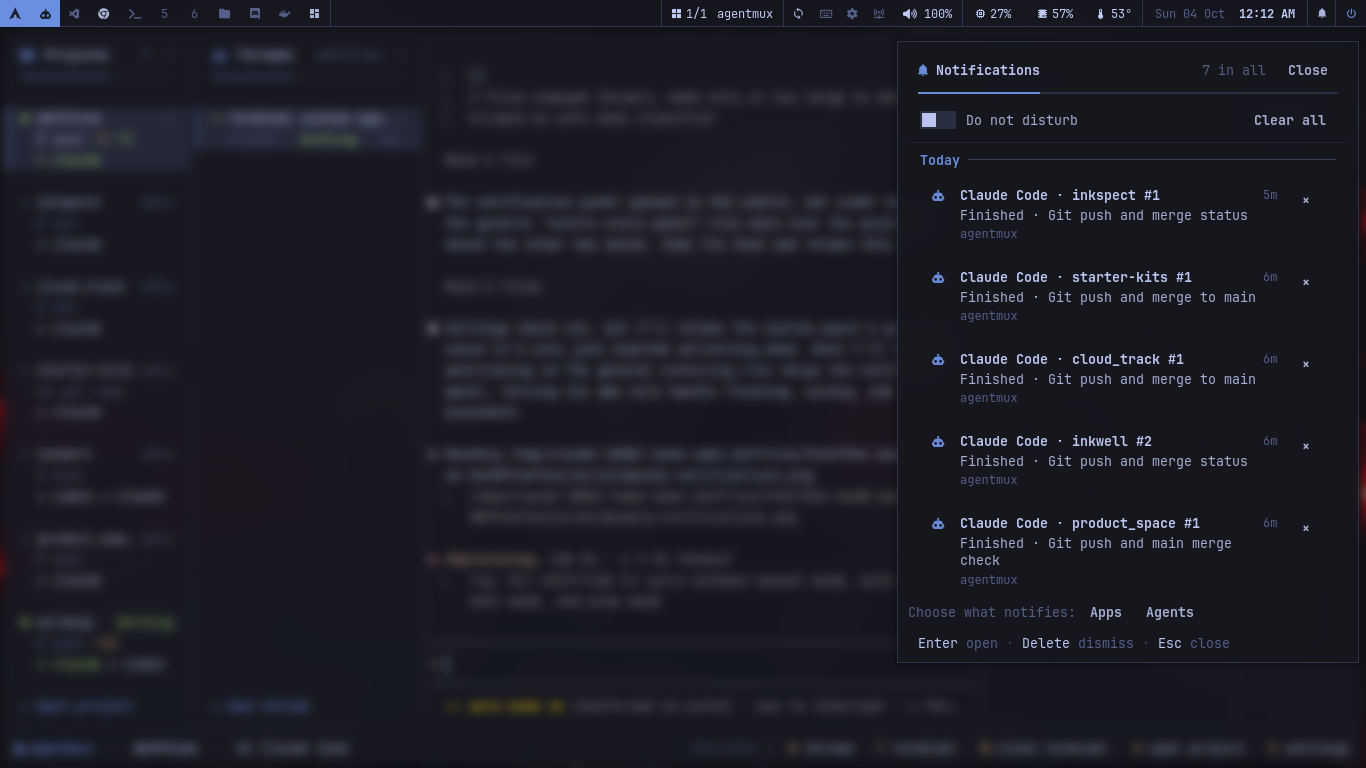
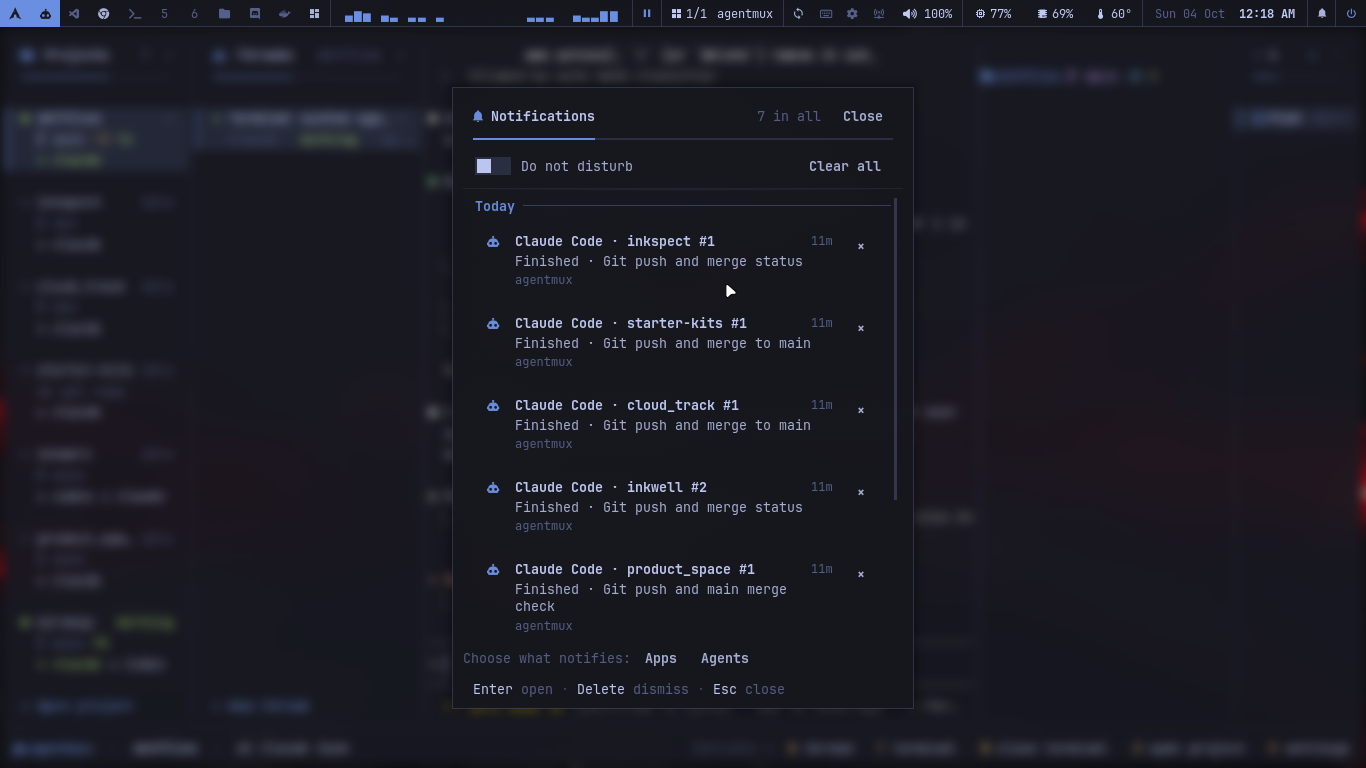
README: GitHub's front page (screenshots, an overview, install, keys), linking to MANUAL.md, the full manual (the former README)

diff --git a/MANUAL.md b/MANUAL.md
@@ -1,25 +1,10 @@
-# dotfiles
+# dotfiles: the manual
 
 CachyOS + Hyprland desktop configuration, riced after [Omarchy](https://github.com/basecamp/omarchy)
 (its classic v3 stack: waybar, walker, mako, swayosd, hyprlock, hypridle, swaybg) in Tokyo Night.
 
-![agentmux: projects, threads, an agent and its terminals side by side](docs/screenshots/agentmux.png)
-
-**agentmux** (`Super + A`): coding agents by project, each thread a live tmux session shared with
-the kitty beside VS Code, terminals at the right. [More below](#agents-agentmux).
-
-| | |
-|---|---|
-| ![Control Center](docs/screenshots/controlcenter.png) | ![System panel](docs/screenshots/system.png) |
-| **Control Center** (workspace 10): workspaces, system, shortcuts, audio, network at a glance | **System** (`Super + Ctrl + T`): CPU, memory and GPU with their history, processes, storage |
-| ![Settings](docs/screenshots/settings.png) | ![Notifications](docs/screenshots/notifications.png) |
-| **Settings** (`Super + I`): every setting in one place, searchable | **Notifications** (the bell, `Super + .`): history by day, do not disturb |
-
-![The bar](docs/screenshots/bar.png)
-
-The bar: workspace buttons, an audio visualizer while sound plays, the window's title, controls,
-stats, the clock and the notification bell. (Screenshots: `docs/screenshots/`, taken on the
-1366×768 PC.)
+This is the full manual: what everything does and how it's put together. For screenshots and a
+short overview, see the [README](README.md).
 
 ## Bootstrap a new machine
 
@@ -67,7 +52,7 @@ zone, power profile, the GPU's own services.
 | `system/swap-setup.sh` | *manual, needs root* | 16 GB swapfile on the SSD (subvolume `@swap` at `/swap`, priority 10, after zram) so systemd-oomd doesn't kill VS Code when RAM fills — `pkexec ~/dotfiles/system/swap-setup.sh` |
 | `system/boot-splash.sh` | *manual, needs root* | boot and shutdown show the loading screen (Plymouth) instead of text: adds `quiet …` to GRUB's kernel command line — `pkexec ~/dotfiles/system/boot-splash.sh` |
 | `setup/` | — | `install.sh`, `setup-dev.sh`, package lists (`packages.txt`, `packages-aur.txt`), `vscode-extensions.txt` |
-| `docs/screenshots/` | — | the screenshots at the top of this README |
+| `docs/screenshots/` | — | the screenshots in the README |
 
 `setup/install.sh` is idempotent and never deletes: anything real it finds in the way
 is moved to `~/.config-backup-<timestamp>/` first.
@@ -314,8 +299,7 @@ The pair popup (`Super + Alt + P`) has none: you watch the pair while you change
 ### Notifications
 
 The bell beside the clock shows them: a plain bell, blue with a dot when something new came since you
-last looked, crossed out (red) while **do not disturb** is on. Click it for the panel (it drops down
-under the bell); right-click it, `Super + Ctrl + ,` or the panel's switch for do not disturb (nothing
+last looked, crossed out (red) while **do not disturb** is on. Click it for the panel; right-click it, `Super + Ctrl + ,` or the panel's switch for do not disturb (nothing
 pops up; everything is still kept for the panel). The panel lists every notification, newest first,
 by day, with its time; the new ones have a blue edge. Click one to open what it's about (an agentmux
 one shows its thread; one still on screen runs its own action); `×` (or `Delete`) takes it out,

diff --git a/README.md b/README.md
@@ -1,0 +1,62 @@
+# dotfiles
+
+CachyOS + Hyprland desktop, riced after [Omarchy](https://github.com/basecamp/omarchy) (waybar,
+walker, mako, swayosd, hyprlock, hypridle, swaybg) in Tokyo Night, with tools of its own: a tmux
+workspace for coding agents, GTK panels, workspace groups and a code backup service. Shared between
+PCs through this repo: a fresh install plus one script gives the same desktop.
+
+**The full manual is [MANUAL.md](MANUAL.md):** every feature, key and file, and how it's put together.
+
+![agentmux: projects, threads, an agent and its terminals side by side](docs/screenshots/agentmux.png)
+
+**agentmux** (`Super + A`): coding agents (Claude Code, Codex, opencode, agy) by project. Each thread
+is a live tmux session, shared with the kitty beside VS Code; terminals at the right; threads come
+back on their own conversation after a restart. [More](MANUAL.md#agents-agentmux)
+
+| | |
+|---|---|
+| ![Control Center](docs/screenshots/controlcenter.png) | ![System panel](docs/screenshots/system.png) |
+| **Control Center** (workspace 10): workspaces, system, shortcuts, audio, network at a glance. [More](MANUAL.md#control-center-workspace-10) | **System** (`Super + Ctrl + T`): CPU, memory and GPU with their history, processes, storage. [More](MANUAL.md#panels) |
+| ![Settings](docs/screenshots/settings.png) | ![Notifications](docs/screenshots/notifications.png) |
+| **Settings** (`Super + I`): every setting in one place, searchable. [More](MANUAL.md#settings-panel) | **Notifications** (the bell, `Super + .`): history by day, do not disturb. [More](MANUAL.md#notifications) |
+
+![The bar](docs/screenshots/bar.png)
+
+The bar: workspace buttons, an audio visualizer while sound plays, the window's title, controls,
+stats, the clock and the notification bell.
+
+## What's in it
+
+- **Workspace groups:** one workspace per kind of app (Agents, Code, Web, Terminal, Files, Discord,
+  Docker, Control Center), each opened or focused with one key. [More](MANUAL.md#workspace-groups)
+- **agentmux:** the agents workspace above, with notifications when an agent needs you or finishes.
+- **Panels:** GTK windows in one look: System, Audio, Network, Shortcuts, Settings, Notifications,
+  Docker, Code Sync. [More](MANUAL.md#panels)
+- **codesync:** backs up the code folder from the SSD to the HDD as you work. [More](MANUAL.md#code-backup-codesync)
+- **Every PC the same:** packages, toolchains, coding agents and settings all come from the repo;
+  `dotsync` keeps the PCs in step. [More](MANUAL.md#syncing-between-pcs)
+
+## Install
+
+On a fresh CachyOS with Hyprland:
+
+```bash
+git clone https://github.com/sami999khan999/arch_dotfiles.git ~/dotfiles
+cd ~/dotfiles
+setup/install.sh --packages   # packages, toolchains, coding agents, config links
+```
+
+Log out and back in. A few one-time steps need root (login screen, boot splash, swap) and are
+listed at the end of the install; see [Bootstrap a new machine](MANUAL.md#bootstrap-a-new-machine).
+
+## Handy keys
+
+| Key | Does |
+|---|---|
+| `Super + A` | agentmux |
+| `Super + I` | Settings |
+| `Super + K` | every shortcut, searchable |
+| `Super + .` | notifications |
+| `Alt + 1…0` | the Nth window of the workspace |
+
+All of them: [Shortcut list](MANUAL.md#shortcut-list), or `Super + K` on the desktop.

diff --git a/AGENTS.md b/AGENTS.md
@@ -3,7 +3,8 @@
 CachyOS + Hyprland desktop config for one user (sami), shared between PCs through GitHub.
 Riced after Omarchy (waybar, walker, mako, swayosd, hyprlock, hypridle, swaybg), Tokyo Night,
 plus custom tools: workspace groups, a Control Center, and `codesync` (code backup SSD → HDD).
-`README.md` is the user manual; this file is what an agent needs to change things safely.
+`MANUAL.md` is the user manual (`README.md` is GitHub's front page: screenshots, an overview, links
+into the manual); this file is what an agent needs to change things safely.
 
 Task-specific guides live in `.claude/skills/*/SKILL.md` (plain Markdown, usable by any agent):
 
@@ -74,7 +75,8 @@ Screenshots: `grim -g "0,0 1366x34" out.png` (the bar; the screen is 1366×768),
 - Match the surrounding code: short header comment saying what the file is and how it's used,
   comments that explain *why*, no dead code. Lua and Python modules follow the existing layout.
 - A new keybind gets a trailing `-- description` comment: `keys.py` (Super + K) shows it.
-- When behaviour changes, update the matching README section in the same commit.
+- When behaviour changes, update the matching MANUAL.md section in the same commit (and README.md if
+  its overview, keys or screenshots no longer match).
 
 ## Hard-won gotchas
 

diff --git a/.claude/skills/workspace-groups/SKILL.md b/.claude/skills/workspace-groups/SKILL.md
@@ -37,7 +37,8 @@ Readers of that file:
 3. Icon on the bar button: the 6th column (a Nerd Font glyph; empty shows the digit). It moves with
    its line, so a reorder needs nothing else.
 4. Prefer Settings → Workspaces for all of this: it writes the file through `wsgroups`.
-5. Update the tables in `README.md` ("Workspace groups", "Control Center").
+5. Update the tables in `MANUAL.md` ("Workspace groups", "Control Center"), and the group list in
+   `README.md` ("What's in it").
 6. Apply:
 
 ```bash
